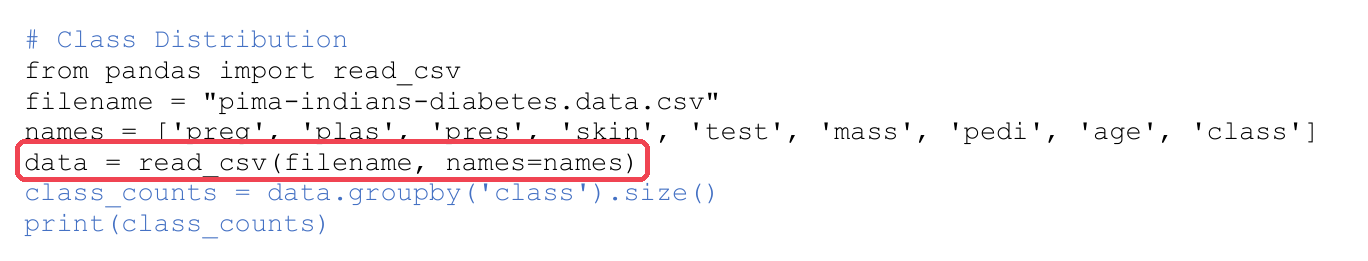
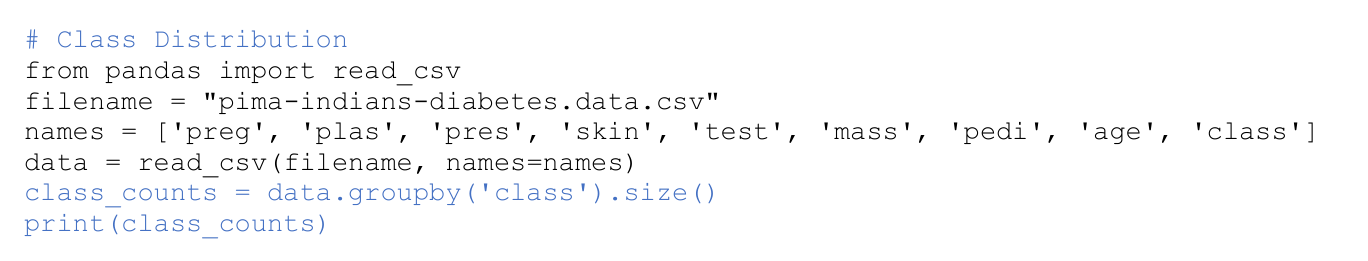
Reframe Lab 1 code slide around the Lab's own procedure
Show the seven Lab 1 steps as a stepper, the Lab PDF excerpts as the
source, and the notebook code in the same order; the header fix is now
a one-line footnote.

Changed region(s): [[0.0, 0.5211, 0.4912, 0.705]]

diff --git a/slides/lab_capture.py b/slides/lab_capture.py
@@ -38,7 +38,5 @@ def capture(pdf_name, page_no, start_text, end_text, out_name, zoom=3.0, pad=8, 
 
 
 if __name__ == "__main__":
-    print(capture("Lab1_Loading ML Data.pdf", 3, "# Load CSV using Pandas", "print(data.shape)", "lab1_read_csv.png",
-                  mark="data = read_csv(filename"))
-    print(capture("Lab1_Loading ML Data.pdf", 7, "# Class Distribution", "print(class_counts)", "lab1_class_dist.png",
-                  mark="data = read_csv(filename"))
+    print(capture("Lab1_Loading ML Data.pdf", 3, "# Load CSV using Pandas", "print(data.shape)", "lab1_read_csv.png"))
+    print(capture("Lab1_Loading ML Data.pdf", 7, "# Class Distribution", "print(class_counts)", "lab1_class_dist.png"))
